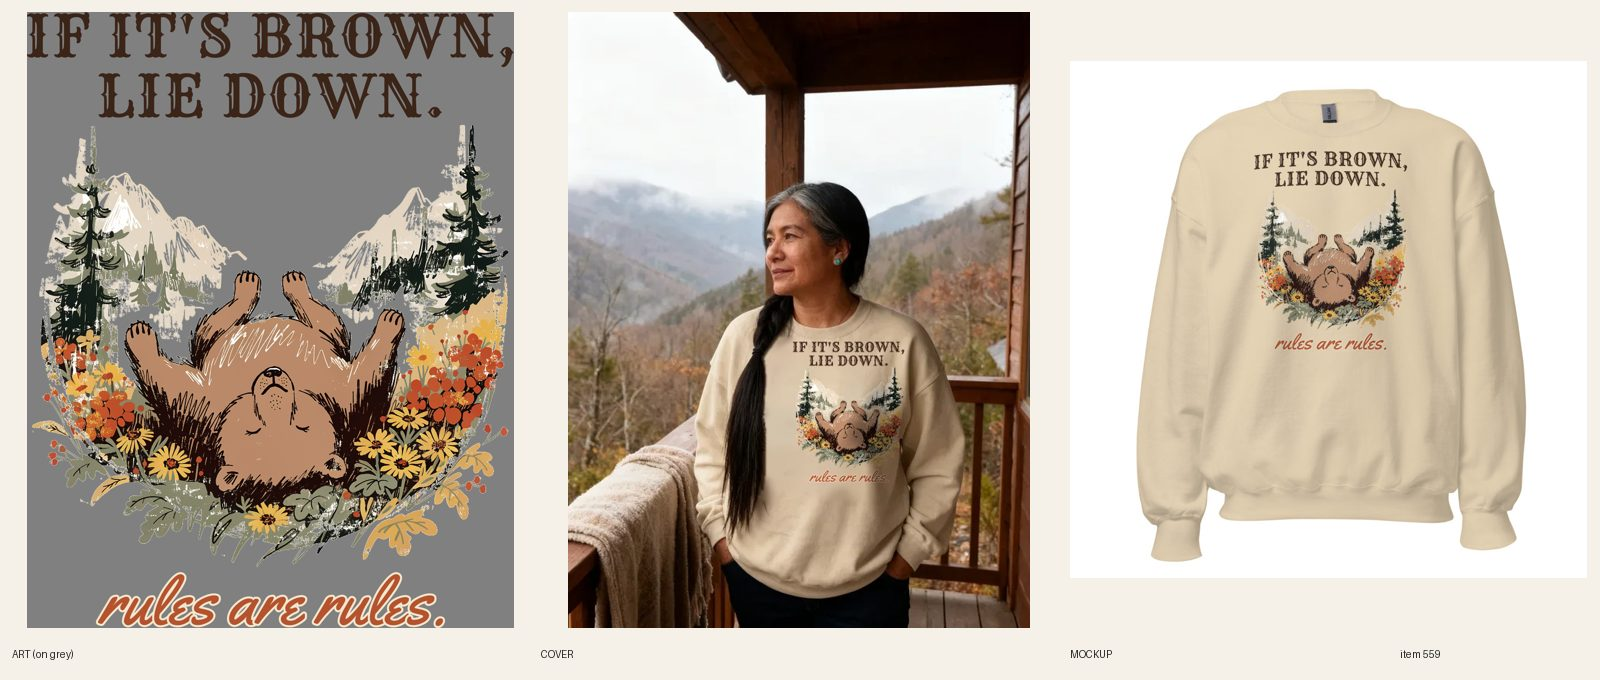
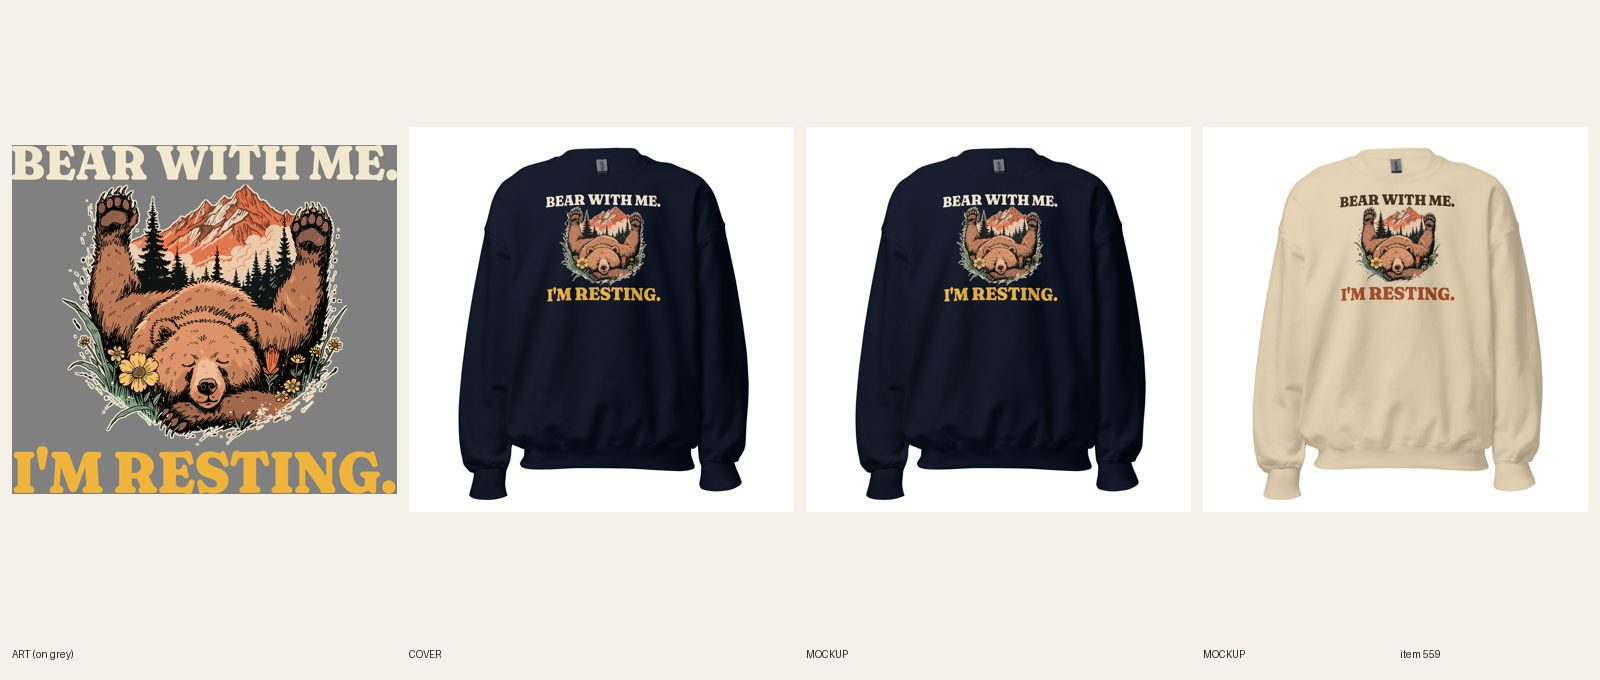
[E] review 559 redid #559 Women's Bear crewneck (line + type: BEAR WITH ME. I'M RESTING., new belly-up sleeping bear art, Navy + Sand files, 12/12 synced, copy updated, plain product shot). REVIEW. fal $0.04.

diff --git a/docs/pipeline/559-bear-crew-if-its-brown-lie-down.md b/docs/pipeline/559-bear-crew-if-its-brown-lie-down.md
@@ -1,4 +1,4 @@
-status: REDO
+status: REVIEW
 lane: E
 type: new
 id: 559
@@ -39,3 +39,4 @@ kd: 20
 - 2026-10-18 10:55 UTC builder [E]: REDO cover only: old print erased with scripts/cover-erase-composite.py (only print pixels masked, repainted from surrounding fabric, braid untouched, no backing box), Sand print 145 px wide to the right of the braid at the mockup's proportions. Chest viewed at 300%: chest clean: no box, no smudge, no hard edge; first letter clear (I, L, r). Sheet remade. fal $0. REVIEW.
 - 2026-10-18 11:16 UTC director: LIVE. Cover composite clean (no box, no hard edge), all three lines read on the cover, Sand file deep-brown headline. ACTIVE + Online Store/Headless/Google & YouTube; audit --handle PASS 0 warn.
 - 2026-10-18 17:22 UTC director: QUALITY RESET grade C (new line + type), REDO. The product stays ACTIVE (same handle, URL, title keyword). 1. Line (R3.12, quality-reset 'Lines'): "IF IT'S BROWN, LIE DOWN. / rules are rules.": Real bear-safety rhyme + mild aside; art just illustrates it, no twist. Write 5 candidates, keep the one a stranger laughs at in 3 seconds without backstory; kill lines that only describe the picture; if none of the 5 is funny, PARK it. 2. Quality reset type bar (docs/backlog/quality-reset.md, 'The new bar'): headline at least 90% of the art width, heavy, colors pulled from the art; second line at least 45% of the headline's height, never a thin script on a dark or mid garment; use the lettering as a shape (arch, stacked lockup, words breaking into the art), not a plain bar above and a script line below; no font used on more than 1 in 6 of the last 30 designs. 3. Keep the art if it carries the new line, else one new illustration (R4/R5). New print means a new cover per R6.10, copy line one rewritten for the new joke (R8.3), and a fresh review sheet (R7.7). While quality-reset.md says PAUSED, only lane A builds, and only the samples step 2 names.
+- 2026-10-20 06:50 UTC builder [E]: REDO 559 (C grade, line + type) done on the existing product (stays ACTIVE, handle unchanged). 5 candidates: "BEAR WITH ME. I'M RESTING."; "Hibernation Is A Lifestyle"; "If It's Brown, Lie Down" (old); "Off-Season. Please Hold."; "Do Not Awaken". Kept BEAR WITH ME. / I'M RESTING. (real second meaning of bear with me, 3 seconds). One new Recraft call ($0.04): big brown bear asleep belly-up in a wildflower meadow with pines and a rust peak, no words, ragged worn edges, no panel. Fraunces Black soft, both lines full print width. Navy file 1090211651 (cream + mustard, thin cream halo); Sand file 1090211707 (dark brown + rust, dark fill: light file logged for Sand). FW 1650 TOP 75, 12/12 synced on the right file per color, back logo kept. Fronts replaced in place, alts updated, title/SEO/copy/FAQs rewritten (the old bear-safety rhyme and its not-safety-advice line are gone). Cover: handle added to retired-covers.json (plain product shot). Phone-size read OK on both. audit --handle PASS 0 warn; astro build OK. fal $0.04. Sheet docs/review/559.jpg.

diff --git a/docs/intake-log.md b/docs/intake-log.md
@@ -2,6 +2,7 @@
 RUNNING lane E since 2026-10-20 06:47 UTC
 RUNNING lane C since 2026-10-20 06:30 UTC
 2026-10-20 06:43 UTC — [E] Builder run: redid #486 Women's Embroidered goose crewneck (line + type: NOT IGNORING YOU. / JUST AT A GOOD PART., same goose, new stitched lettering, navy thread, 12/12 synced). REVIEW. fal $0.
+2026-10-20 06:50 UTC — [E] Builder run: redid #559 Women's Bear crewneck (line + type: BEAR WITH ME. I'M RESTING., new belly-up sleeping bear art, Navy + Sand files, 12/12 synced, copy updated, plain product shot). REVIEW. fal $0.04.
 RUNNING director since 2026-10-20 06:16 UTC
 2026-10-20 06:30 UTC — [E] Builder run: redid #466 Unisex Embroidered hoodie (line + type: REPLAYING / WHAT I SAID / IN 2014., new stitched lettering, Sand navy thread + Navy white thread, 12/12 synced). REVIEW. fal $0.
 2026-10-20 06:41 UTC — [B] Builder run: redid #380 round 2 (RULES: UNKNOWN. / SNACKS: PACKED., punch widened to headline width, ink widths 3598/3598 px, Sand + Sport Grey, 12/12 synced). REVIEW. fal $0.
